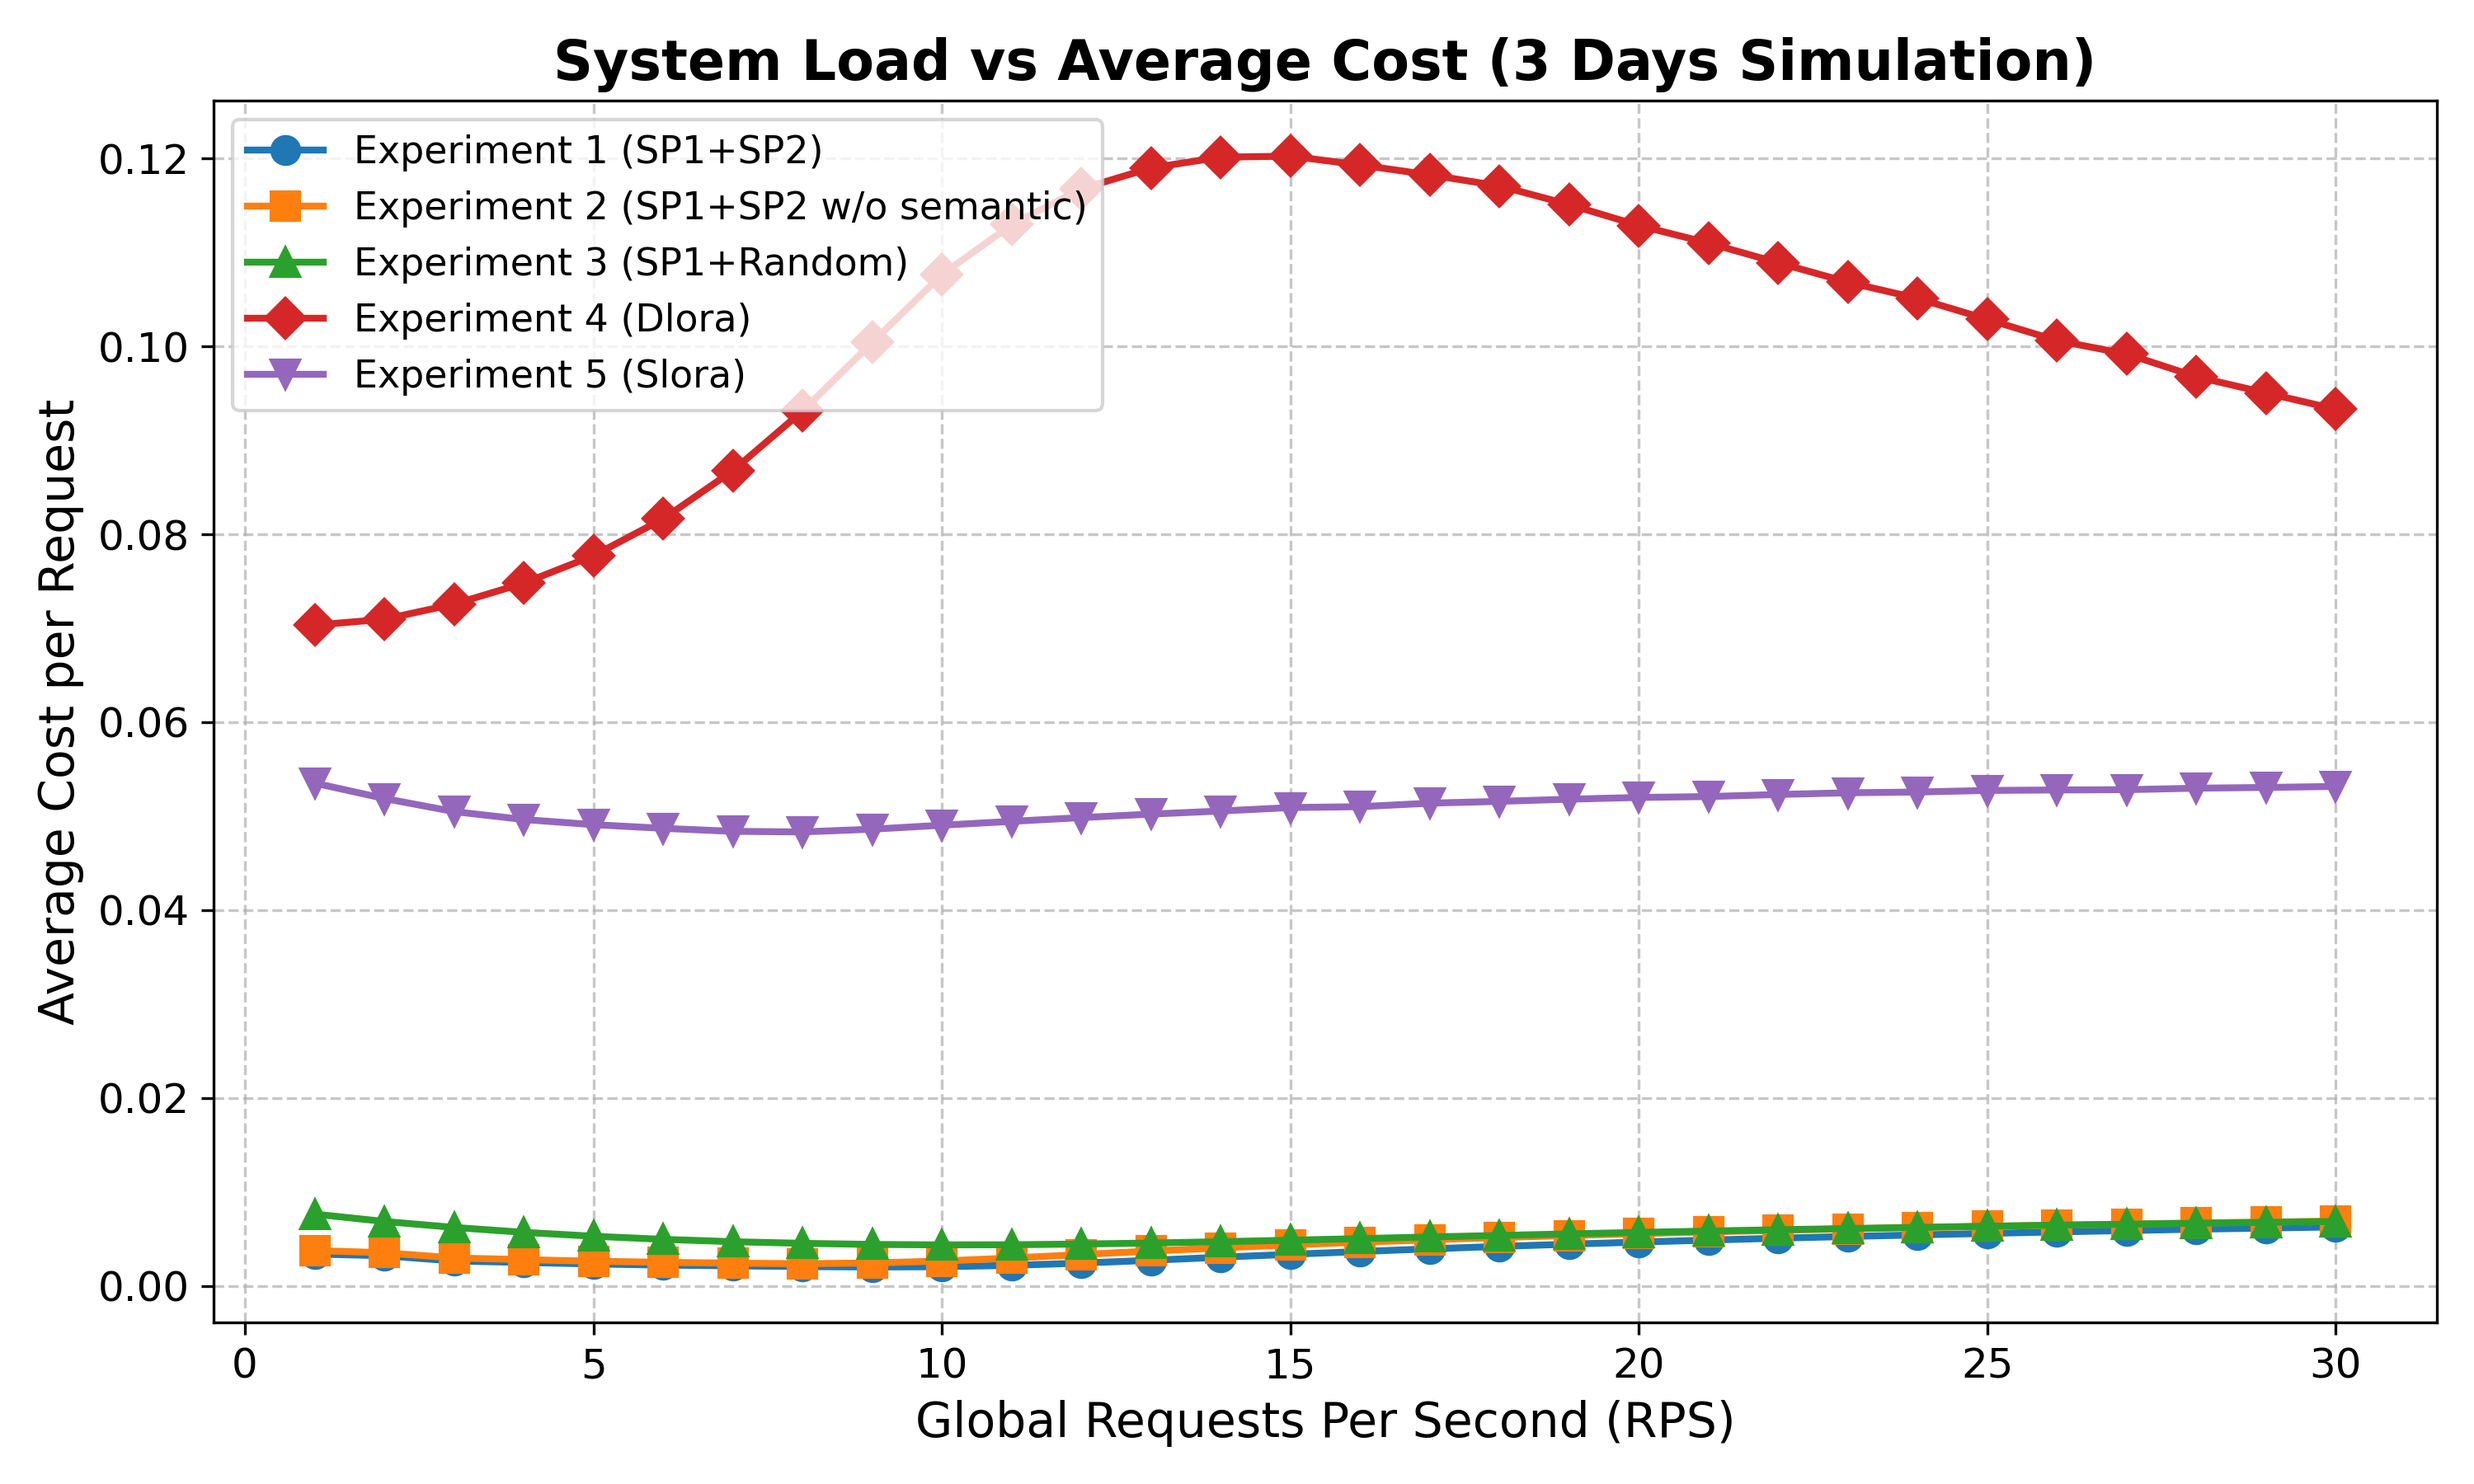
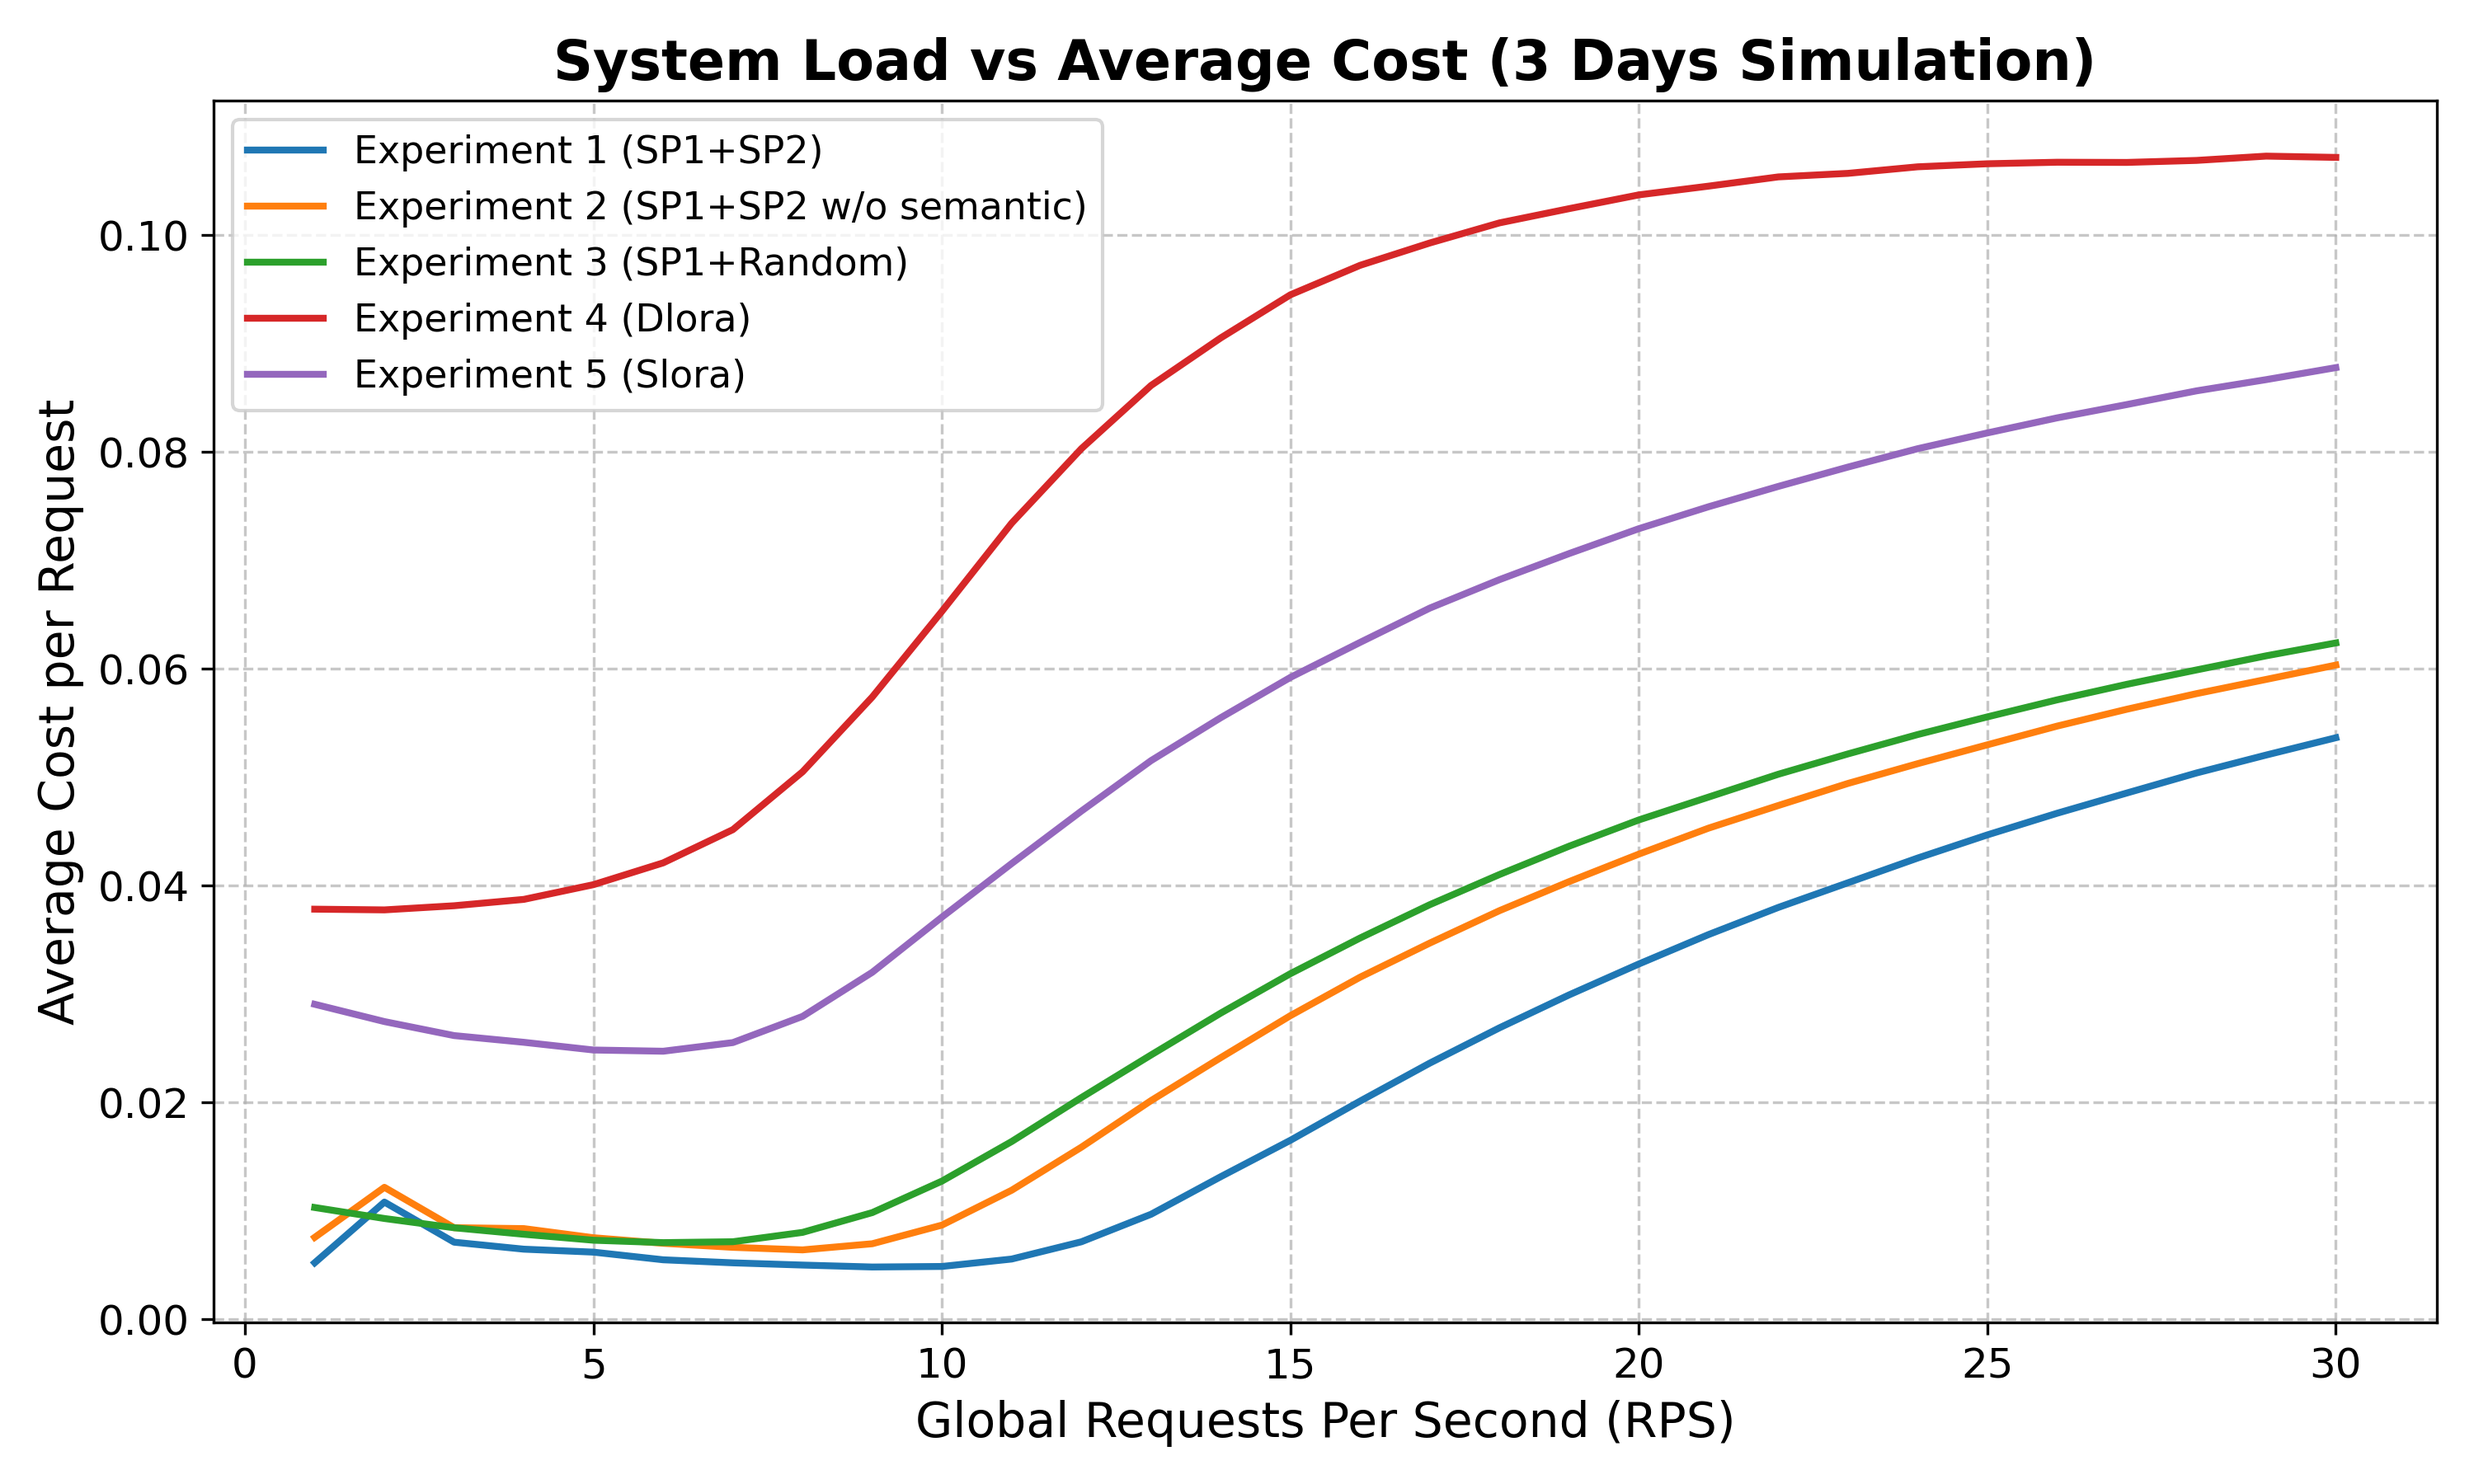
tmp

diff --git a/discrete_sim/run_synthetic_experiments_sim.py b/discrete_sim/run_synthetic_experiments_sim.py
@@ -30,8 +30,8 @@ NUM_CLUSTERS = 3                     # Control Node 數量
 COMPUTE_NODES_PER_CLUSTER = 5        # 每個 Cluster 的 Compute Node 數量
 
 # 設定你這次要跑的 RPS 區間 (例如之前跑過 1~20，這次可以放 21~30)
-RPS_LIST = [i for i in range(1, 31)] 
-ZIPF_S_PARAMETER = 1.2               # Zipf 分佈傾斜度
+RPS_LIST = [i for i in range(1, 51)] 
+ZIPF_S_PARAMETER = 1.5               # Zipf 分佈傾斜度
 
 LORA_MAPPING_PATH = os.path.join(PROJECT_ROOT, "information", "lora_mapping.json")
 OUTPUT_CSV_FILE = os.path.join(PROJECT_ROOT, "synthetic_results.csv")
@@ -100,6 +100,28 @@ def run_single_task(args):
     sim.trace = synthetic_gen
     sim.TOTAL_REQUESTS = synthetic_gen.total_requests
     sim.PAD_LEN = len(str(sim.TOTAL_REQUESTS))
+
+    # =========================================================================
+    # 【新增修復：將生成的合成事件轉為 DataFrame，讓 EFO(SP1) 能正確預測】
+    # 避免 EFO 去讀取錯誤的 dummy trace csv，導致預測需求一直為 0 的問題
+    # =========================================================================
+    records = []
+    for t_ms, reqs in synthetic_gen._events.items():
+        arr_sec = t_ms / 1000.0
+        for cluster, lora_id in reqs:
+            records.append({
+                "arrival_sec": arr_sec,
+                "cluster": cluster,
+                "lora_id": lora_id
+            })
+    
+    if records:
+        df_synthetic = pd.DataFrame(records)
+        sim.efo.simulation_df = df_synthetic
+    else:
+        # 防呆機制：若無任何請求，給一個空表
+        sim.efo.simulation_df = pd.DataFrame(columns=["arrival_sec", "cluster", "lora_id"])
+    # =========================================================================
 
     # 3. 執行模擬 【核心修改：開啟黑洞屏蔽大量 print，大幅提升運算速度】
     with open(os.devnull, 'w') as fnull:

diff --git a/cost2.py b/cost2.py
@@ -6,7 +6,7 @@ import numpy as np
 
 from config import (
     COST_STORE_PER_GB, COST_DOWNLOAD_PER_GB,
-    COST_NET_TRAFFIC, COST_DROP_PENALTY2, LORA_SIZE_GB,
+    COST_NET_TRAFFIC, COST_DROP_PENALTY2, COST_DROP_PENALTY, LORA_SIZE_GB,
     COST_COMPUTE_PER_SEC
 )
 
@@ -43,10 +43,8 @@ def parse_logs(log_file):
                 offload_count = totals.get("total_offloads", 0)
                 cost_network = offload_count * COST_NET_TRAFFIC
 
-                drop_count = totals.get("total_drops", 0)
-                cost_penalty = drop_count * COST_DROP_PENALTY2 * (
-                    1 if log_file == "./experiment_single_cluster_2nodes2_logs/efo_global_metrics.log" else 1
-                )
+                drop_count = totals.get("total_drops", 0) 
+                cost_penalty = drop_count * COST_DROP_PENALTY 
 
                 total_cost = (
                     cost_storage

diff --git a/discrete_sim/draw_synthetic_cost.py b/discrete_sim/draw_synthetic_cost.py
@@ -44,7 +44,7 @@ def main():
         plt.plot(
             subset['Global_RPS'], 
             subset['Average_Cost'], 
-            marker=markers[idx % len(markers)], 
+            # marker=markers[idx % len(markers)], 
             linewidth=2, 
             markersize=8,
             label=strategy
